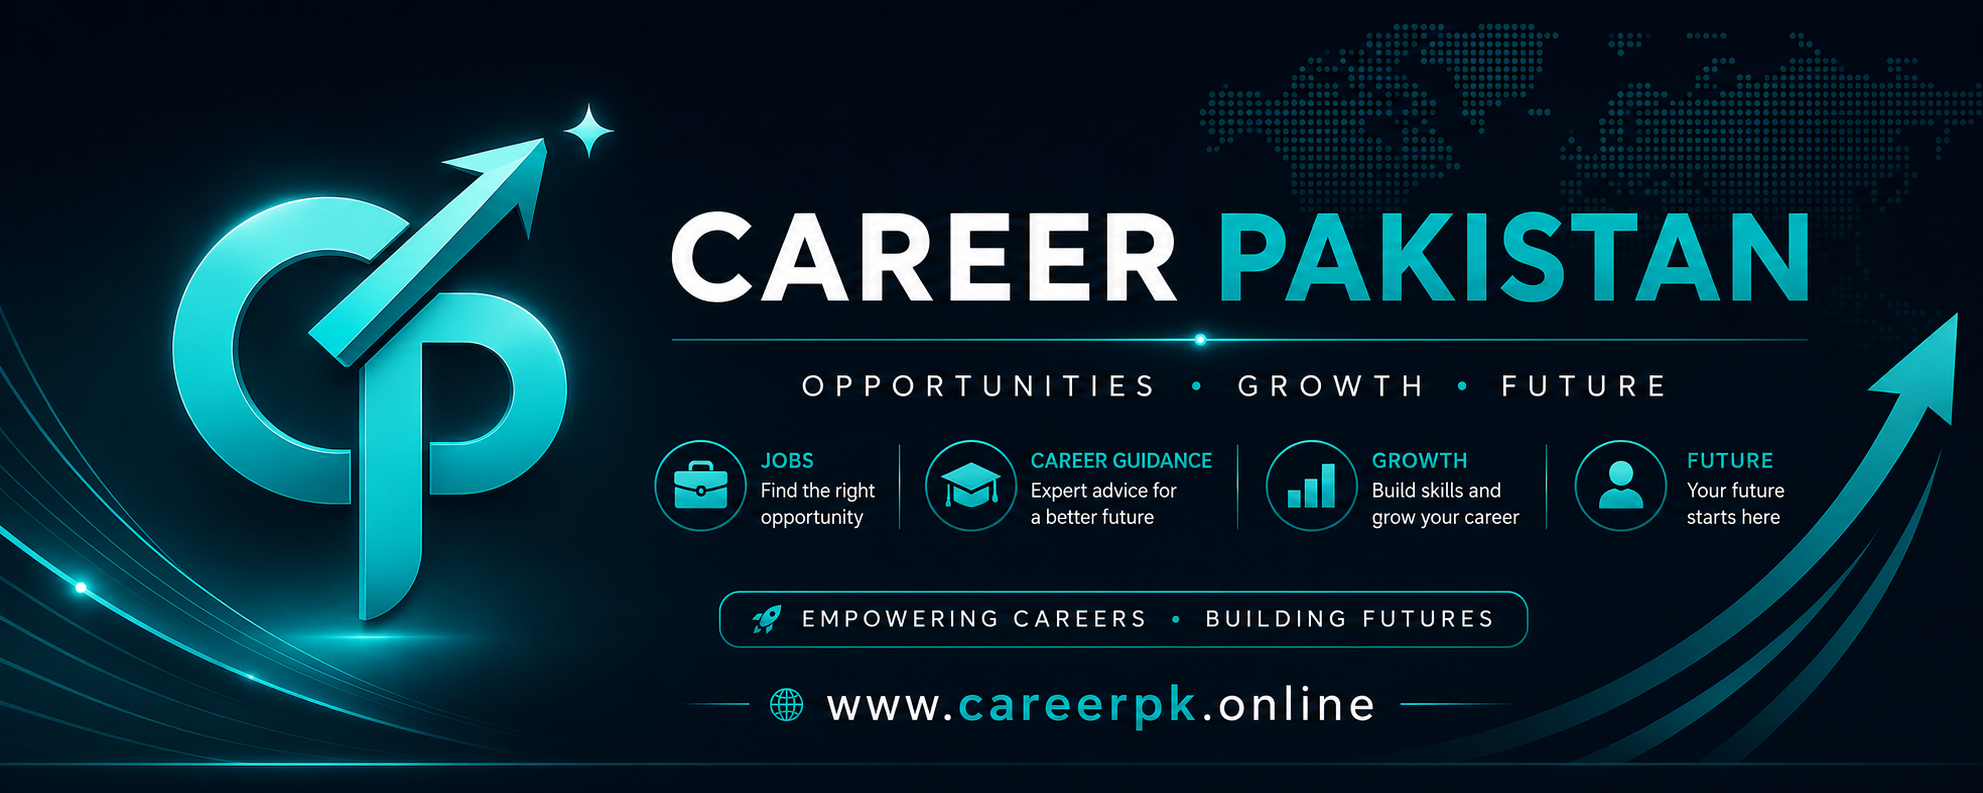
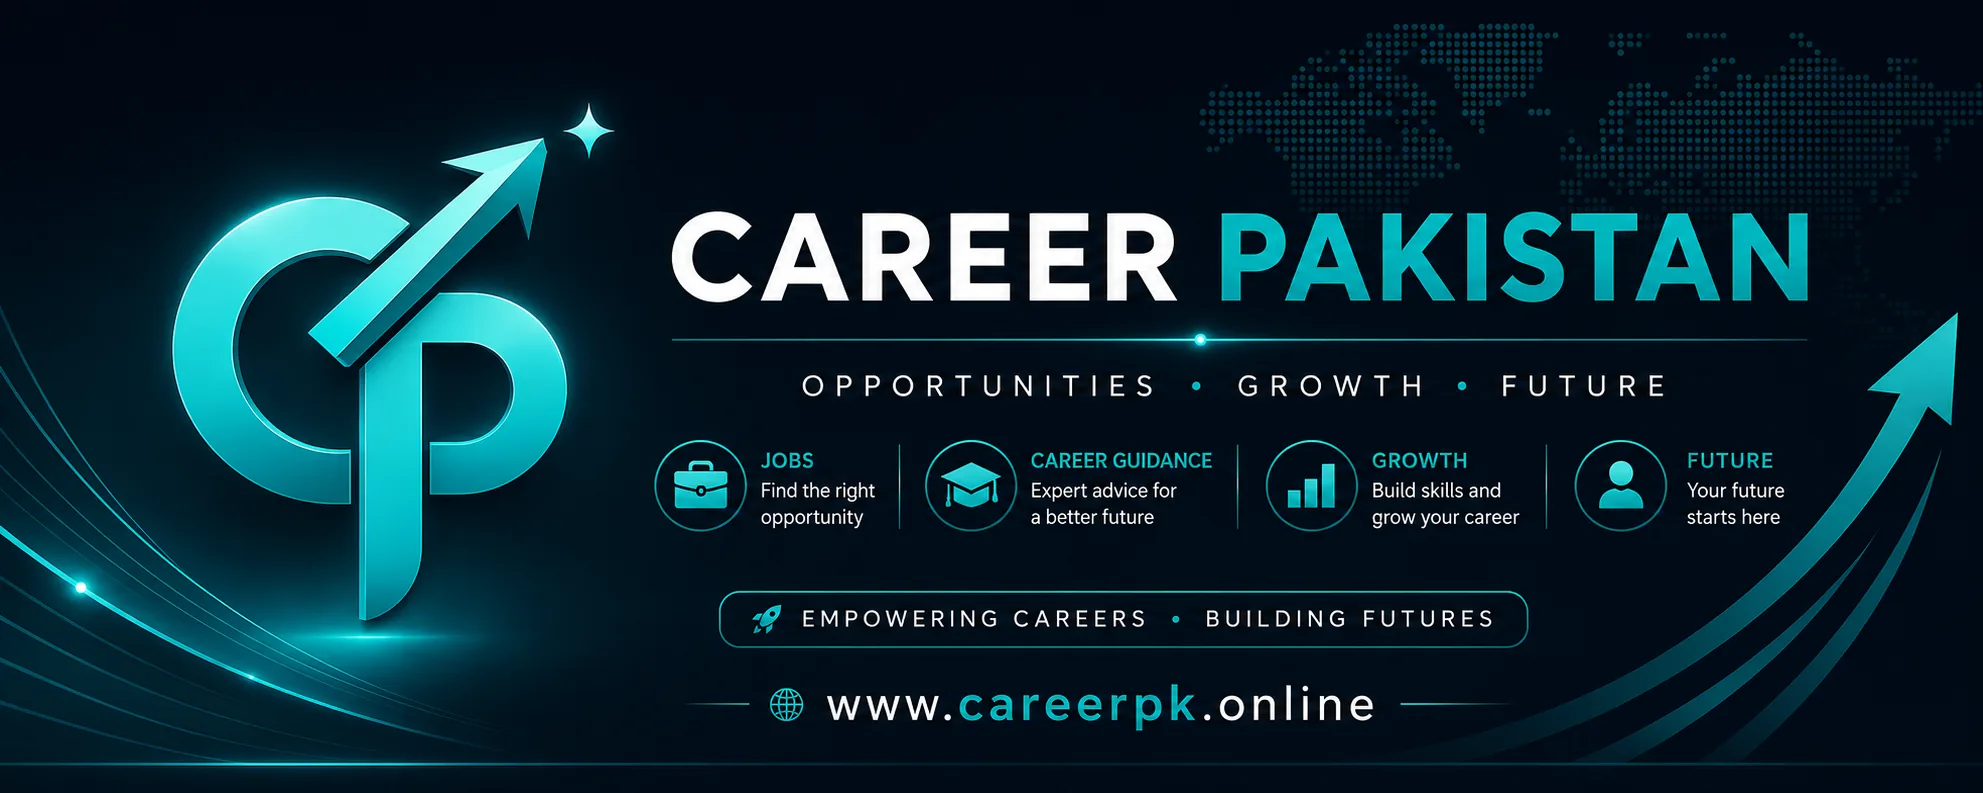
iop

diff --git a/index.html b/index.html
@@ -54,8 +54,7 @@
   <link rel="stylesheet" href="css/main-enhanced.css"/>
 
   <!-- Non-critical CSS — loaded async via print trick, applied on load -->
-  <link rel="stylesheet" href="css/cms-additions.css"       media="print" onload="this.media='all'"/>
-  <link rel="stylesheet" href="css/design-enhancements.css" media="print" onload="this.media='all'"/>
+  <!-- cms-additions.css and design-enhancements.css merged into main-enhanced.css -->
   <link rel="stylesheet" href="css/premium-upgrades.css"    media="print" onload="this.media='all'"/>
   <link rel="stylesheet" href="css/perf-improvements.css"   media="print" onload="this.media='all'"/>
   <link rel="stylesheet" href="css/dark-mode-fixes.css"     media="print" onload="this.media='all'"/>
@@ -403,7 +402,7 @@ body.dark .sw-pill:hover{background:rgba(45,212,191,.1);border-color:#2dd4bf;col
       <div class="hero-logo-side">
         <picture>
           <source srcset="logo.webp" type="image/webp">
-          <img src="logo.webp" alt="Career Pakistan" class="hero-logo-img" fetchpriority="high" decoding="async"/>
+          <img src="logo.webp" alt="Career Pakistan" class="hero-logo-img" width="300" height="300" fetchpriority="high" decoding="async"/>
         </picture>
         <div class="hero-logo-ring" aria-hidden="true"></div>
       </div>
@@ -838,7 +837,7 @@ document.addEventListener('DOMContentLoaded', () => {
   updateFavCount();
   initMenu();
   if (typeof ensureChatbotLoaded === 'function') ensureChatbotLoaded();
-  onCMSReady(_homeInit);
+    _homeInit();
   if (typeof registerMultiTabRefresh === 'function') registerMultiTabRefresh(_homeInit);
   if (typeof initializeAutoRefreshListeners === 'function') initializeAutoRefreshListeners();
   _initNavbarScroll();
@@ -854,6 +853,107 @@ function _initNavbarScroll() {
       t = false;
     });
   }, { passive: true });
+}
+
+function _renderHomeSection(key) {
+  var section = SECTIONS.find(function (item) { return item.key === key; });
+  if (!section) return;
+  waitForCMSData([section.sheet], { timeout: 10000 }).then(function () {
+    try {
+      var items = sortItems((window.CMS_DATA[section.sheet] || []).slice(), section.sort);
+      if (typeof section.filter === 'function') items = section.filter(items);
+      _renderSection(section.key, items, section.renderer);
+      var grid = document.getElementById('grid-' + section.key);
+      if (typeof window.initLazyImages === 'function') {
+        window.initLazyImages(grid);
+      } else {
+        setTimeout(function () { if (typeof window.initLazyImages === 'function') window.initLazyImages(grid); }, 120);
+      }
+    } catch (err) {
+      console.error('[CareerPK Home] section render failed:', key, err);
+    }
+  });
+}
+
+function _renderHomeCounts() {
+  var counters = [
+    { id: 'sS', sheet: 'Scholarships' },
+    { id: 'sJ', sheet: 'Jobs' },
+    { id: 'sI', sheet: 'Internships' },
+    { id: 'sE', sheet: 'Exams' },
+    { id: 'sBk', sheet: 'Books' },
+    { id: 'sBl', sheet: 'Blogs' }
+  ];
+  counters.forEach(function (item) {
+    waitForCMSData([item.sheet], { timeout: 10000 }).then(function () {
+      _stat(item.id, (window.CMS_DATA[item.sheet] || []).length);
+    });
+  });
+}
+
+function _renderHomeSidebar() {
+  Promise.allSettled([
+    waitForCMSData(['Scholarships'], { timeout: 12000 }),
+    waitForCMSData(['Jobs'], { timeout: 12000 }),
+    waitForCMSData(['Internships'], { timeout: 12000 }),
+    waitForCMSData(['Exams'], { timeout: 12000 }),
+    waitForCMSData(['Blogs'], { timeout: 12000 })
+  ]).then(function () {
+    try {
+      var D = window.CMS_DATA || {};
+      var S = D.Scholarships || [];
+      var J = D.Jobs || [];
+      var I = D.Internships || [];
+      var E = D.Exams || [];
+      var Bl = (D.Blogs || []).filter(function (b) { return b.isPublished !== false && b.is_published !== false; });
+      var allItems = [].concat(
+        S.map(function (x) { return Object.assign({}, x, { _type: 'scholarship' }); }),
+        J.map(function (x) { return Object.assign({}, x, { _type: 'job' }); }),
+        I.map(function (x) { return Object.assign({}, x, { _type: 'internship' }); }),
+        E.map(function (x) { return Object.assign({}, x, { _type: 'exam' }); })
+      );
+      var now = new Date();
+      var soon = allItems
+        .map(function (i) {
+          var raw = i.deadline || i.registrationDeadline || i.registration_deadline || i.testDate || i.test_date || '';
+          var d = raw ? new Date(raw) : null;
+          return Object.assign({}, i, { _dl: d, _dlRaw: raw });
+        })
+        .filter(function (i) { return i._dl && i._dl > now; })
+        .sort(function (a, b) { return a._dl - b._dl; })
+        .slice(0, 7);
+      var typeIcon = { scholarship: '🎓', job: '💼', internship: '🚀', exam: '📝' };
+      _swRender('sw-deadlines', soon, function (i) {
+        return '<a class="sw-item" href="' + getCardDetailsUrl(i.id, i._type, i.title) + '">' +
+          '<span class="sw-icon">' + typeIcon[i._type] + '</span>' +
+          '<span class="sw-body"><span class="sw-title">' + escapeHtml(i.title || '') + '</span>' +
+          '<span class="sw-meta urgent"><i class="fa fa-clock fa-xs"></i> ' + formatDate(i._dlRaw) + '</span></span></a>';
+      }, 'No upcoming deadlines.', 3);
+      var featured = [].concat(S, J, I, E).filter(function (i) { return i.isFeatured === true || i.is_featured === true; }).slice(0, 6);
+      _swRender('sw-featured', featured, function (i) {
+        return '<a class="sw-item" href="' + getCardDetailsUrl(i.id, i._type, i.title) + '">' +
+          '<span class="sw-icon">⭐</span>' +
+          '<span class="sw-body"><span class="sw-title">' + escapeHtml(i.title || '') + '</span>' +
+          '<span class="sw-meta">' + escapeHtml(i._type.charAt(0).toUpperCase() + i._type.slice(1)) + '</span></span></a>';
+      }, 'No featured items yet.', 3);
+      var upE = sortItems(E, 'deadline').slice(0, 6);
+      _swRender('sw-exams', upE, function (e) {
+        return '<a class="sw-item" href="' + getCardDetailsUrl(e.id, 'exam', e.title) + '">' +
+          '<span class="sw-icon">📋</span>' +
+          '<span class="sw-body"><span class="sw-title">' + escapeHtml(e.title || '') + '</span>' +
+          '<span class="sw-meta">' + (e.conductingBody ? escapeHtml(e.conductingBody) + ' · ' : '') + formatDate(e.testDate || e.test_date || e.registrationDeadline || '') + '</span></span></a>';
+      }, 'No upcoming exams.', 3);
+      var recBl = sortItems(Bl, 'newest').slice(0, 6);
+      _swRender('sw-blogs', recBl, function (b) {
+        return '<a class="sw-item" href="' + getCardDetailsUrl(b.id, 'blog', b.title) + '">' +
+          '<span class="sw-icon">✍️</span>' +
+          '<span class="sw-body"><span class="sw-title">' + escapeHtml(b.title || '') + '</span>' +
+          '<span class="sw-meta">' + (b.category ? escapeHtml(b.category) + ' · ' : '') + formatDate(b.date || b.postedDate || b.posted_date || '') + '</span></span></a>';
+      }, 'No posts yet.', 3);
+    } catch (err) {
+      console.error('[CareerPK Sidebar]', err);
+    }
+  });
 }
 
 // ── Main init (called when CMS data is ready) ─────────────

diff --git a/js/app.js b/js/app.js
@@ -491,7 +491,7 @@ function openCardPost(id, type) {
 function cardScholarship(s) {
   const fav = isFav(s.id, 'scholarship');
   const src = getCardImage(s, 'scholarship');
-  const imgHTML = src ? `<img src="${TRANSPARENT_PLACEHOLDER}" data-src="${escapeHtml(src)}" alt="${escapeHtml(s.title)}" loading="lazy" onerror="this.onerror=null;this.src='${escapeHtml(GENERIC_IMAGE_FALLBACK)}';this.classList.remove('img-loading');this.classList.add('img-loaded');if(this.nextElementSibling){this.nextElementSibling.style.display='none';}">` : '';
+  const imgHTML = src ? `<img width="320" height="140" src="${TRANSPARENT_PLACEHOLDER}" data-src="${escapeHtml(src)}" alt="${escapeHtml(s.title)}" loading="lazy" decoding="async" onerror="this.onerror=null;this.src='${escapeHtml(GENERIC_IMAGE_FALLBACK)}';this.classList.remove('img-loading');this.classList.add('img-loaded');if(this.nextElementSibling){this.nextElementSibling.style.display='none';}">` : '';
   const loc = s.country || s.province || '';
   return `
   <div class="card" data-id="${s.id}" data-type="scholarship" role="button" tabindex="0" aria-label="View ${escapeHtml(s.title)}">
@@ -527,7 +527,7 @@ function cardScholarship(s) {
 function cardJob(j) {
   const fav = isFav(j.id, 'job');
   const src = getCardImage(j, 'job');
-  const imgHTML = src ? `<img src="${TRANSPARENT_PLACEHOLDER}" data-src="${escapeHtml(src)}" alt="${escapeHtml(j.title)}" loading="lazy" onerror="this.onerror=null;this.src='${escapeHtml(GENERIC_IMAGE_FALLBACK)}';this.classList.remove('img-loading');this.classList.add('img-loaded');if(this.nextElementSibling){this.nextElementSibling.style.display='none';}">` : '';
+  const imgHTML = src ? `<img width="320" height="140" src="${TRANSPARENT_PLACEHOLDER}" data-src="${escapeHtml(src)}" alt="${escapeHtml(j.title)}" loading="lazy" decoding="async" onerror="this.onerror=null;this.src='${escapeHtml(GENERIC_IMAGE_FALLBACK)}';this.classList.remove('img-loading');this.classList.add('img-loaded');if(this.nextElementSibling){this.nextElementSibling.style.display='none';}">` : '';
   return `
   <div class="card" data-id="${j.id}" data-type="job" role="button" tabindex="0" aria-label="View ${escapeHtml(j.title)}">
     <div class="card-img">
@@ -562,7 +562,7 @@ function cardJob(j) {
 function cardInternship(i) {
   const fav = isFav(i.id, 'internship');
   const src = getCardImage(i, 'internship');
-  const imgHTML = src ? `<img src="${TRANSPARENT_PLACEHOLDER}" data-src="${escapeHtml(src)}" alt="${escapeHtml(i.title)}" loading="lazy" onerror="this.onerror=null;this.src='${escapeHtml(GENERIC_IMAGE_FALLBACK)}';this.classList.remove('img-loading');this.classList.add('img-loaded');if(this.nextElementSibling){this.nextElementSibling.style.display='none';}">` : '';
+  const imgHTML = src ? `<img width="320" height="140" src="${TRANSPARENT_PLACEHOLDER}" data-src="${escapeHtml(src)}" alt="${escapeHtml(i.title)}" loading="lazy" decoding="async" onerror="this.onerror=null;this.src='${escapeHtml(GENERIC_IMAGE_FALLBACK)}';this.classList.remove('img-loading');this.classList.add('img-loaded');if(this.nextElementSibling){this.nextElementSibling.style.display='none';}">` : '';
   const paidCls = (i.type||'').toLowerCase()==='paid' ? 'paid' : 'unpaid';
   return `
   <div class="card" data-id="${i.id}" data-type="internship" role="button" tabindex="0" aria-label="View ${escapeHtml(i.title)}">
@@ -598,7 +598,7 @@ function cardInternship(i) {
 function cardExam(e) {
   const fav = isFav(e.id, 'exam');
   const src = getCardImage(e, 'exam');
-  const imgHTML = src ? `<img src="${TRANSPARENT_PLACEHOLDER}" data-src="${escapeHtml(src)}" alt="${escapeHtml(e.title)}" loading="lazy" onerror="this.onerror=null;this.src='${escapeHtml(GENERIC_IMAGE_FALLBACK)}';this.classList.remove('img-loading');this.classList.add('img-loaded');if(this.nextElementSibling){this.nextElementSibling.style.display='none';}">` : '';
+  const imgHTML = src ? `<img width="320" height="140" src="${TRANSPARENT_PLACEHOLDER}" data-src="${escapeHtml(src)}" alt="${escapeHtml(e.title)}" loading="lazy" decoding="async" onerror="this.onerror=null;this.src='${escapeHtml(GENERIC_IMAGE_FALLBACK)}';this.classList.remove('img-loading');this.classList.add('img-loaded');if(this.nextElementSibling){this.nextElementSibling.style.display='none';}">` : '';
   return `
   <div class="card" data-id="${e.id}" data-type="exam" role="button" tabindex="0" aria-label="View ${escapeHtml(e.title)}">
     <div class="card-img">
@@ -632,7 +632,7 @@ function cardExam(e) {
 function cardBook(b) {
   const fav = isFav(b.id, 'book');
   const src = getCardImage(b, 'book');
-  const imgHTML = src ? `<img src="${TRANSPARENT_PLACEHOLDER}" data-src="${escapeHtml(src)}" alt="${escapeHtml(b.title)}" loading="lazy" onerror="this.onerror=null;this.src='${escapeHtml(GENERIC_IMAGE_FALLBACK)}';this.classList.remove('img-loading');this.classList.add('img-loaded');if(this.nextElementSibling){this.nextElementSibling.style.display='none';}">` : '';
+  const imgHTML = src ? `<img width="320" height="140" src="${TRANSPARENT_PLACEHOLDER}" data-src="${escapeHtml(src)}" alt="${escapeHtml(b.title)}" loading="lazy" decoding="async" onerror="this.onerror=null;this.src='${escapeHtml(GENERIC_IMAGE_FALLBACK)}';this.classList.remove('img-loading');this.classList.add('img-loaded');if(this.nextElementSibling){this.nextElementSibling.style.display='none';}">` : '';
   return `
   <div class="card" data-id="${b.id}" data-type="book" role="button" tabindex="0" aria-label="View ${escapeHtml(b.title)}">
     <div class="card-img">
@@ -667,7 +667,7 @@ function cardBook(b) {
 function cardBlog(b) {
   const fav = isFav(b.id, 'blog');
   const src = getCardImage(b, 'blog');
-  const imgHTML = src ? `<img src="${TRANSPARENT_PLACEHOLDER}" data-src="${escapeHtml(src)}" alt="${escapeHtml(b.title)}" loading="lazy" onerror="this.onerror=null;this.src='${escapeHtml(GENERIC_IMAGE_FALLBACK)}';this.classList.remove('img-loading');this.classList.add('img-loaded');if(this.nextElementSibling){this.nextElementSibling.style.display='none';}">` : '';
+  const imgHTML = src ? `<img width="320" height="140" src="${TRANSPARENT_PLACEHOLDER}" data-src="${escapeHtml(src)}" alt="${escapeHtml(b.title)}" loading="lazy" decoding="async" onerror="this.onerror=null;this.src='${escapeHtml(GENERIC_IMAGE_FALLBACK)}';this.classList.remove('img-loading');this.classList.add('img-loaded');if(this.nextElementSibling){this.nextElementSibling.style.display='none';}">` : '';
   return `
   <div class="card" data-id="${b.id}" data-type="blog" role="button" tabindex="0" aria-label="Read ${escapeHtml(b.title)}">
     <div class="card-img">

diff --git a/js/google-sheet-loader.js b/js/google-sheet-loader.js
@@ -254,7 +254,7 @@ async function loadAllSheets() {
       });
   });
 
-  window._CMS_LOAD_PROMISE = Promise.all(tasks).then(() => {
+  window._CMS_LOAD_PROMISE = Promise.allSettled(tasks).then(() => {
     window.CMS_LOADING.global = false;
     if (typeof window._fireCMSReady === 'function') window._fireCMSReady();
     return window.CMS_DATA;